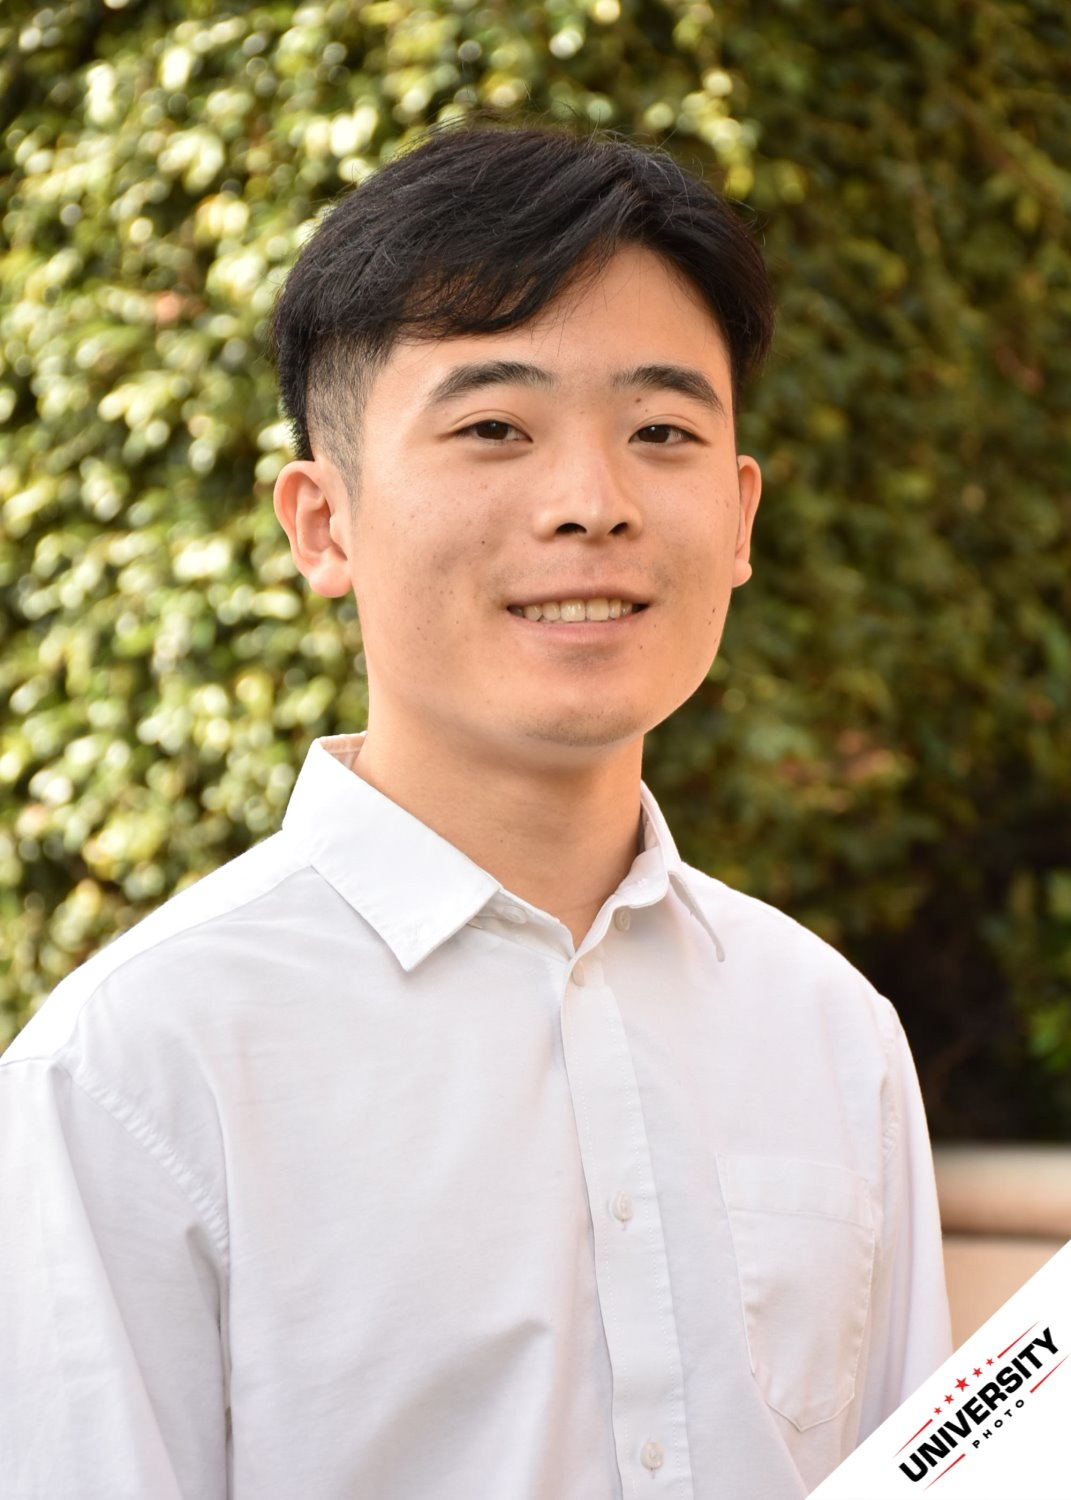
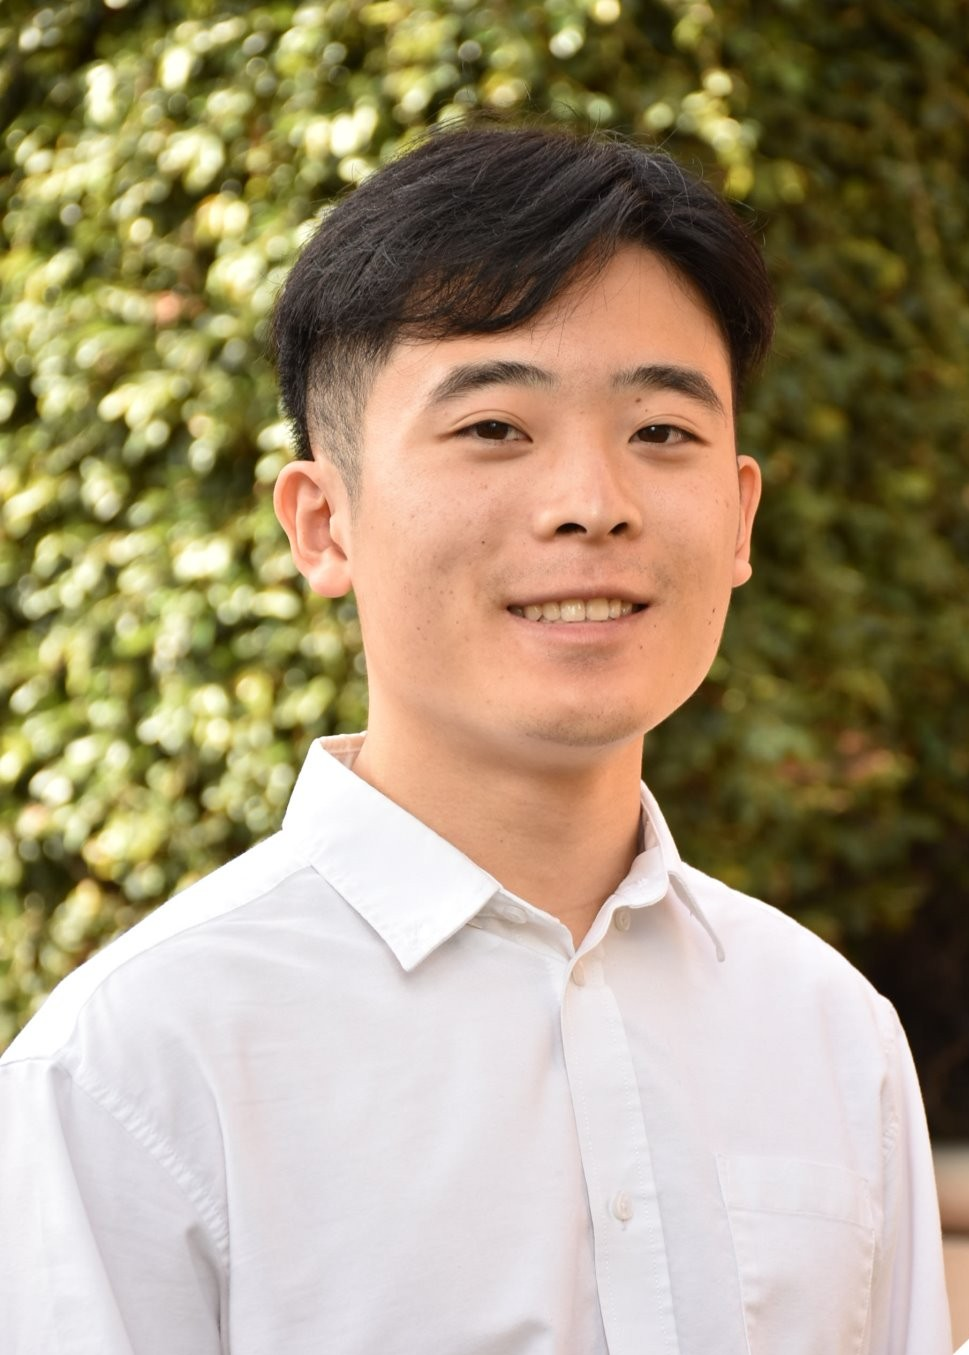
Profile pic and minor edits

diff --git a/Art.html b/Art.html
@@ -114,7 +114,7 @@
                         </div>
                         <img src = "./Art/Calligraphy_Popo.jpg">
                         <div class="content-caption">
-                            A calligraphy piece I gifted to my grandma.  The top characters of the two four character phrases are her name.  The full 8 character 
+                            A calligraphy piece I gifted to my grandma.  The top characters of the four character phrases are her name.  The full 8 character 
                             phrase describes her as beautiful, kind, and intelligent.
                         </div>
                     </div>

diff --git a/research.html b/research.html
@@ -118,7 +118,7 @@
 
             <!-- Pose Optimization -->
             <div class="content-item" id="Humanoid Pose Optimization">
-                <div class="content-item-title">Humanoid Pose Optimization</div>
+                <div class="content-item-title">Humanoid Kinodynamic Pose Optimization</div>
                 <div class="content-item-inner">
                     <video controls loop muted autoplay width="100%" height="100%"; object-fit:cover; object-position:center;>
                         <source src="./Research_Content/Pose_Opt_Push1.mp4" type="video/mp4">

diff --git a/index.html b/index.html
@@ -90,7 +90,7 @@
       <div class="hero__content">
         <p class="pdf-title">Nathan Chun</p>
         <img
-          src="./Professional Photos/casual_profile.jpg"
+          src="./Professional Photos/Torso Right.jpg"
           alt="Nathan Chun"
           class="hero__img"
         />
